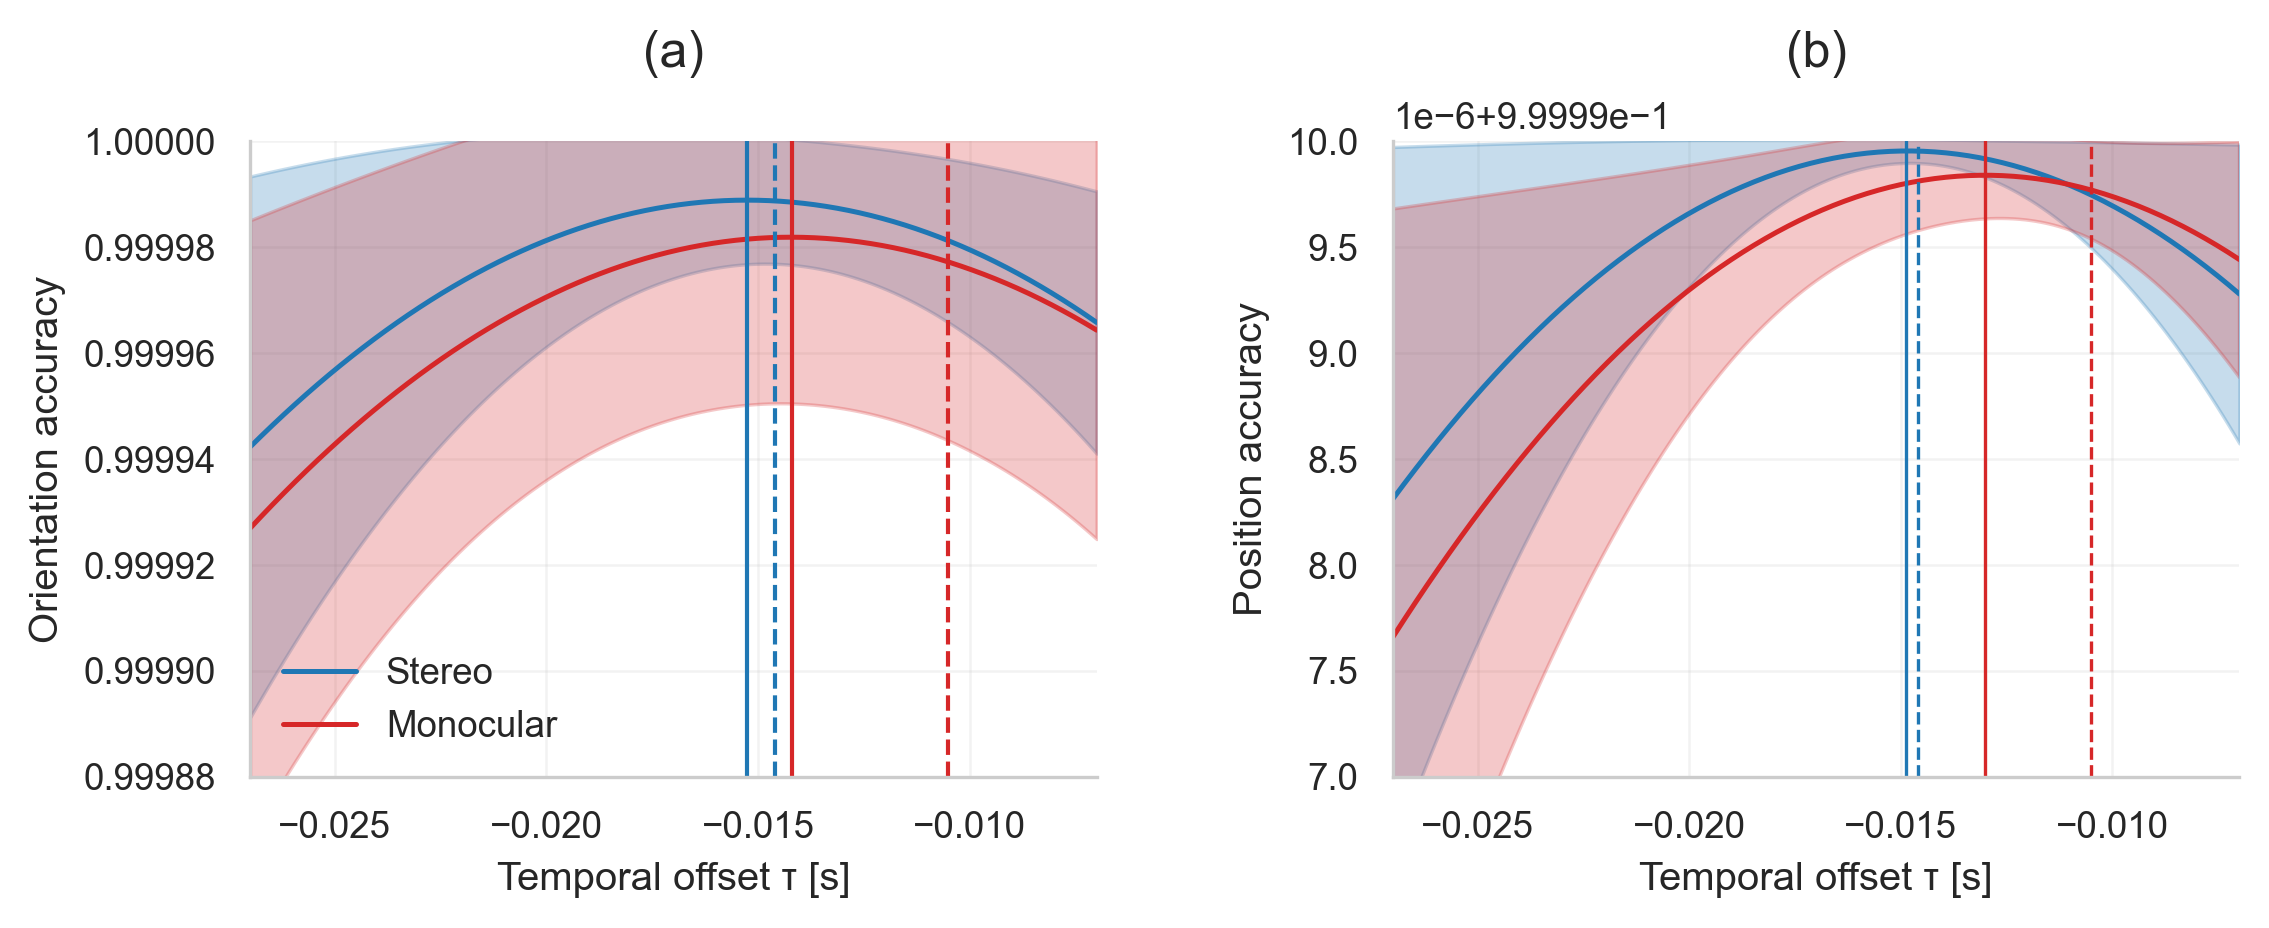
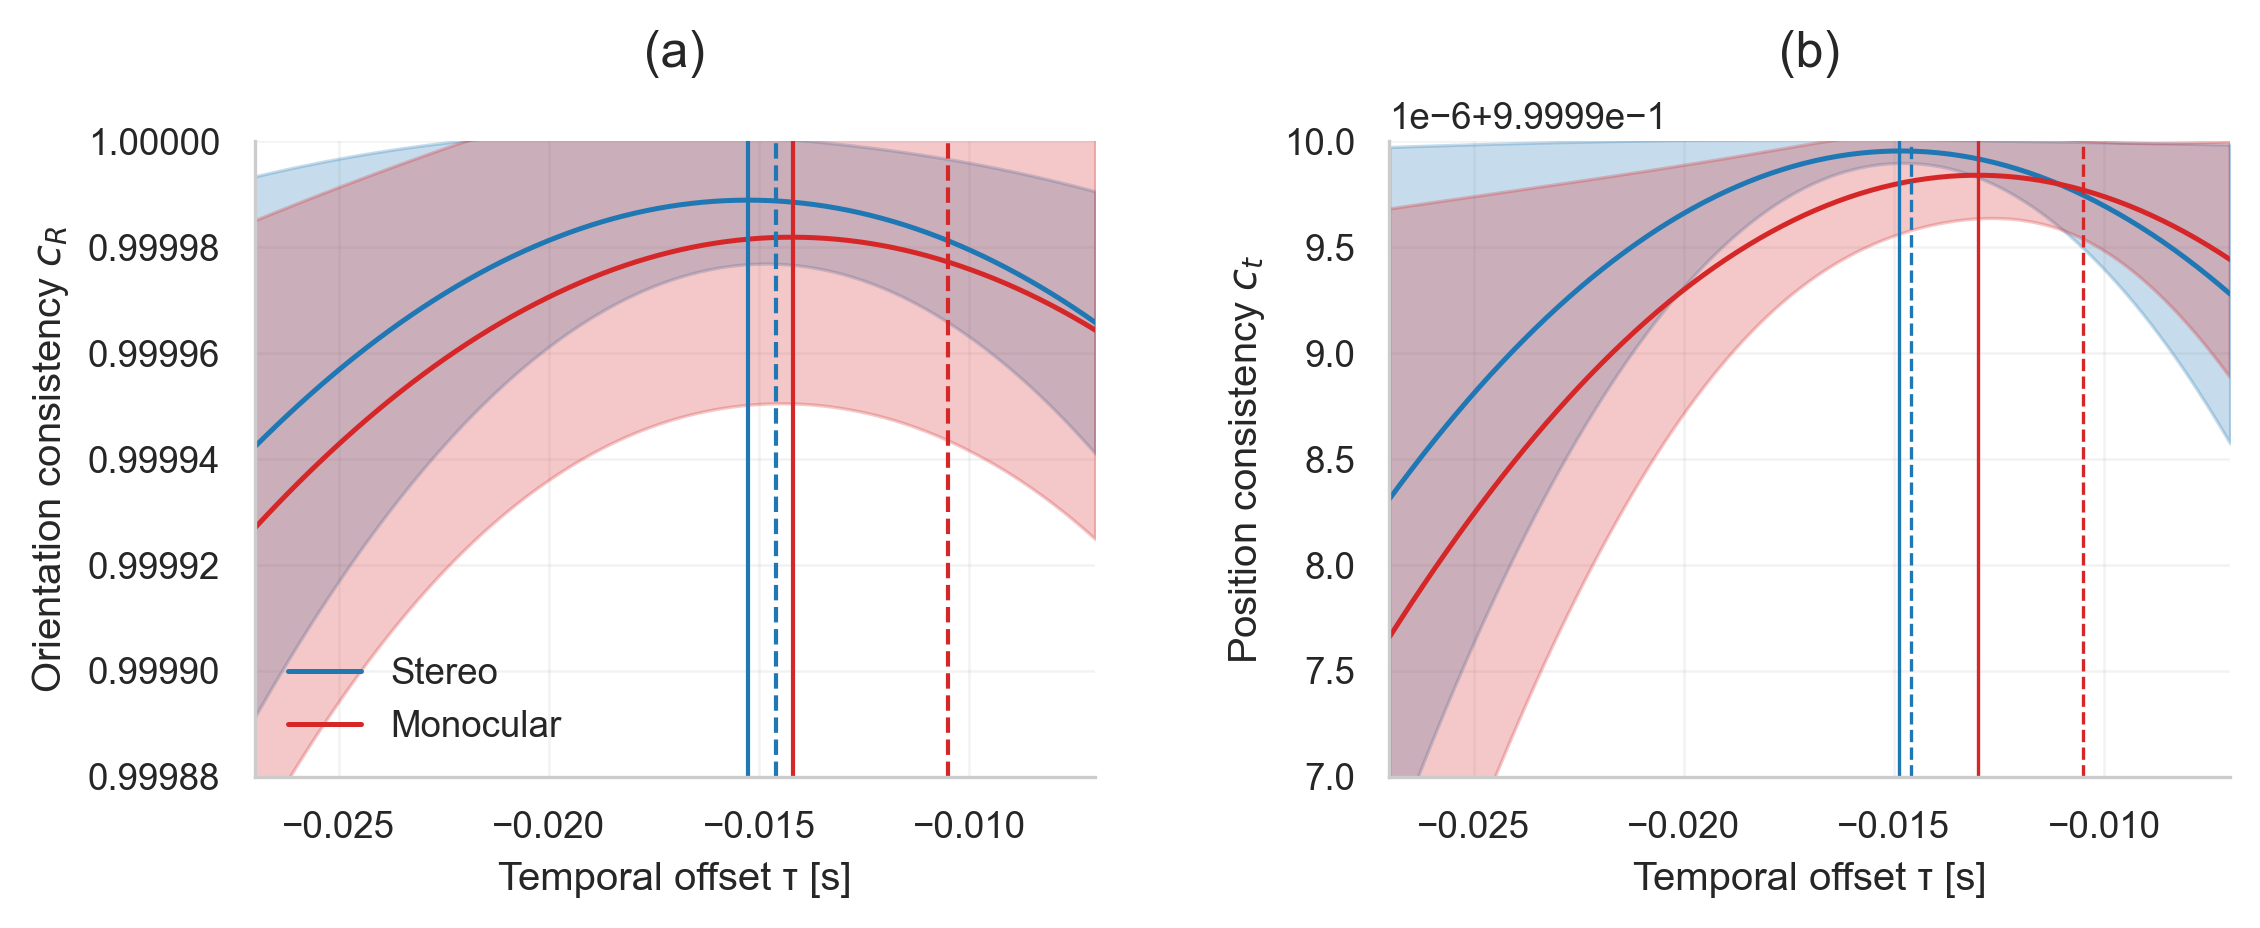
Plot notation refinement

diff --git a/src/plotting.py b/src/plotting.py
@@ -204,7 +204,7 @@ def plot_shah_boxplots(
     )
 
     axes[0].set_xticklabels(labels)
-    axes[0].set_ylabel("Orientation Accuracy")
+    axes[0].set_ylabel(r'Orientation consistency $c_R$')
     axes[0].set_ylim(0.999945, 1)
     axes[0].grid(True, axis="y", alpha=0.25)
     axes[0].text(0.5, 1.1, "(a)", transform=axes[0].transAxes,
@@ -225,7 +225,7 @@ def plot_shah_boxplots(
     )
 
     axes[1].set_xticklabels(labels)
-    axes[1].set_ylabel("Position Accuracy")
+    axes[1].set_ylabel(r'Position consistency $c_t$')
     axes[1].set_ylim(0.99999775, 1)
     axes[1].grid(True, axis="y", alpha=0.25)
     axes[1].text(0.5, 1.1, "(b)", transform=axes[1].transAxes,
@@ -326,7 +326,7 @@ def plot_tau_shah_metrics(
     ax.axvline(tau_ori_st_max, color="tab:blue", linewidth=1)
     ax.axvline(tau_ori_m_max,  color="tab:red", linewidth=1)
 
-    ax.set_ylabel("Orientation accuracy")
+    ax.set_ylabel(r'Orientation consistency $c_R$')
     ax.set_ylim(0.99988, 1.0)
     ax.set_xlim(min(taus), max(taus))
     ax.grid(True, alpha=0.25)
@@ -372,7 +372,7 @@ def plot_tau_shah_metrics(
     ax.axvline(tau_pos_st_max, color="tab:blue", linewidth=0.8)
     ax.axvline(tau_pos_m_max,  color="tab:red", linewidth=0.8)
 
-    ax.set_ylabel("Position accuracy")
+    ax.set_ylabel(r'Position consistency $c_t$')
     ax.set_ylim(0.999997, 1.0)
     ax.set_xlim(min(taus), max(taus))
     ax.grid(True, alpha=0.25)
@@ -476,7 +476,7 @@ def plot_tau_shah_metrics_2x2(
         ax.axvline(-tau_stereo, color="black", linewidth=1.2, linestyle="--")
     ax.axvline(tau_ori_st_max, color="black", linewidth=1.0)
 
-    ax.set_ylabel("Orientation accuracy")
+    ax.set_ylabel(r'Orientation consistency $c_R$')
     ax.set_ylim(0.99988, 1.0)
     ax.set_xlim(min(taus), max(taus))
     ax.text(0.5, 1.08, "(a)", transform=ax.transAxes,
@@ -523,7 +523,7 @@ def plot_tau_shah_metrics_2x2(
         ax.axvline(-tau_stereo, color="black", linewidth=1.2, linestyle="--")
     ax.axvline(tau_pos_st_max, color="black", linewidth=1.0)
 
-    ax.set_ylabel("Position accuracy")
+    ax.set_ylabel(r'Position consistency $c_t$')
     ax.set_ylim(0.999997, 1.0)
     ax.set_xlim(min(taus), max(taus))
     ax.text(0.5, 1.08, "(c)", transform=ax.transAxes,
